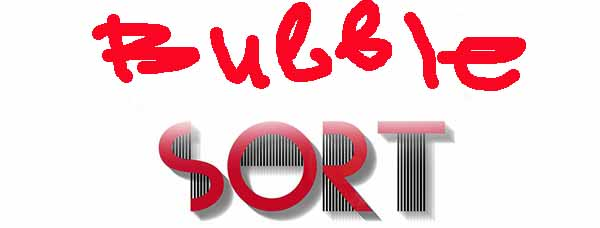
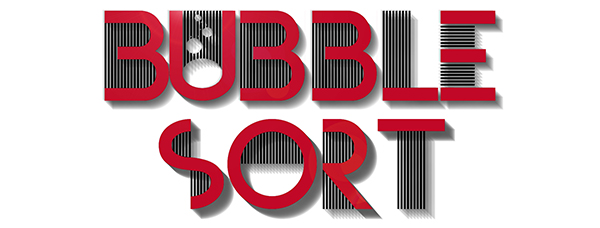
add few more fixes to design

diff --git a/Sorting/Contact.html b/Sorting/Contact.html
@@ -56,12 +56,47 @@
 <h1 class="text-capitalize" >CONTACT </h1>
 </div>
 <article id="main">
-<p class="contact"><b>Ksenia Burova - </b><a href="mailto:kburova@vols.utk.edu">kburova@vols.utk.edu</a> </p>
-<p class="contact"><b>Nick Kelley - </b><a href="mailto:txy741@vols.utk.edu">txy741@vols.utk.edu</a>  </p>
-<p class="contact"><b>Stephen Pablo - </b><a href="mailto:wht344@vols.utk.edu">wht344@vols.utk.edu</a>  </p>
-<p class="contact"><b>Preston Shires - </b><a href="mailto:pshires1@vols.utk.edu">pshires1@vols.utk.edu</a>  </p>
+<div class="row">
+  <div class="col-xs-3">
+    <div class="thumbnail"><img  src="../images/ksenia.jpg">
+      <div class="caption">
+        <h4 >Ksenia Burova</h4>
+      </div>
+       <a href="mailto:kburova@vols.utk.edu"><p><img src="../images/email.jpg"></p></a>
+      
+    </div>
+  </div>
+  <div class="col-xs-3">
+    <div class="thumbnail"><img src="../images/nick.jpg">
+      <div class="caption">
+        <h4>Nick Kelley</h4>
+        <a href="mailto:txy741@vols.utk.edu"><p><img src="../images/email.jpg"></p></a>
+       
+       
+      </div>
+    </div>
+  </div>
+  <div class="col-xs-3">
+    <div class="thumbnail"><img src="../images/stephen.jpg">
+      <div class="caption">
+        <h4>Stephen Publo</h4>
+      <a href="mailto:wht344@vols.utk.edu"><p><img src="../images/email.jpg"></p></a> 
+       
+      </div>
+    </div>
+  </div>
+  <div class="col-xs-3">
+    <div class="thumbnail"><img src="../images/preston.jpg">
+      <div class="caption">
+        <h4>Preston Shires</h4>
+      <a href="mailto:pshires1@vols.utk.edu"><p><img src="../images/email.jpg"></p></a> 
+       
+      </div>
+    </div>
+  </div>
+</div>
+
 </article>
-<div class="intro" >want to add our liitle pics here</div>
 
 <!-- jQuery (necessary for Bootstrap's JavaScript plugins) --> 
 <script src="../js/jquery-1.11.2.min.js"></script>

diff --git a/css/bootstrap.css b/css/bootstrap.css
@@ -1119,7 +1119,8 @@ figure {
   margin: 0;
 }
 img {
-  vertical-align: middle;
+	vertical-align: middle;
+	text-align: center;
 }
 .img-responsive,
 .thumbnail > img,
@@ -1282,7 +1283,8 @@ h3,
 }
 h4,
 .h4 {
-  font-size: 18px;
+	font-size: 18px;
+	text-align: center;
 }
 h5,
 .h5 {
@@ -4916,7 +4918,7 @@ a.badge:focus {
 .thumbnail a > img {
 	margin-right: 0px;
 	margin-left: 0px;
-	width: 100%;
+	width: auto;
 }
 a.thumbnail:hover,
 a.thumbnail:focus,

diff --git a/Sorting/Bubble.html b/Sorting/Bubble.html
@@ -52,7 +52,7 @@
 </div>
     <!-- /.container-fluid -->
 
-<img src="../images/bubble sort banner.jpg" class="img-thumbnail img-responsive image-fill" alt="Placeholder image">
+<img  src="../images/bubble banner.jpg" class="img-thumbnail img-responsive image-fill" alt="Placeholder image">
 
 <article id="main"><p class="intro"> DESCRIPTION</p></article>
 <div class="container"><p class="intro"> DIV/ Here we can insert code code and buttons </p></div>
